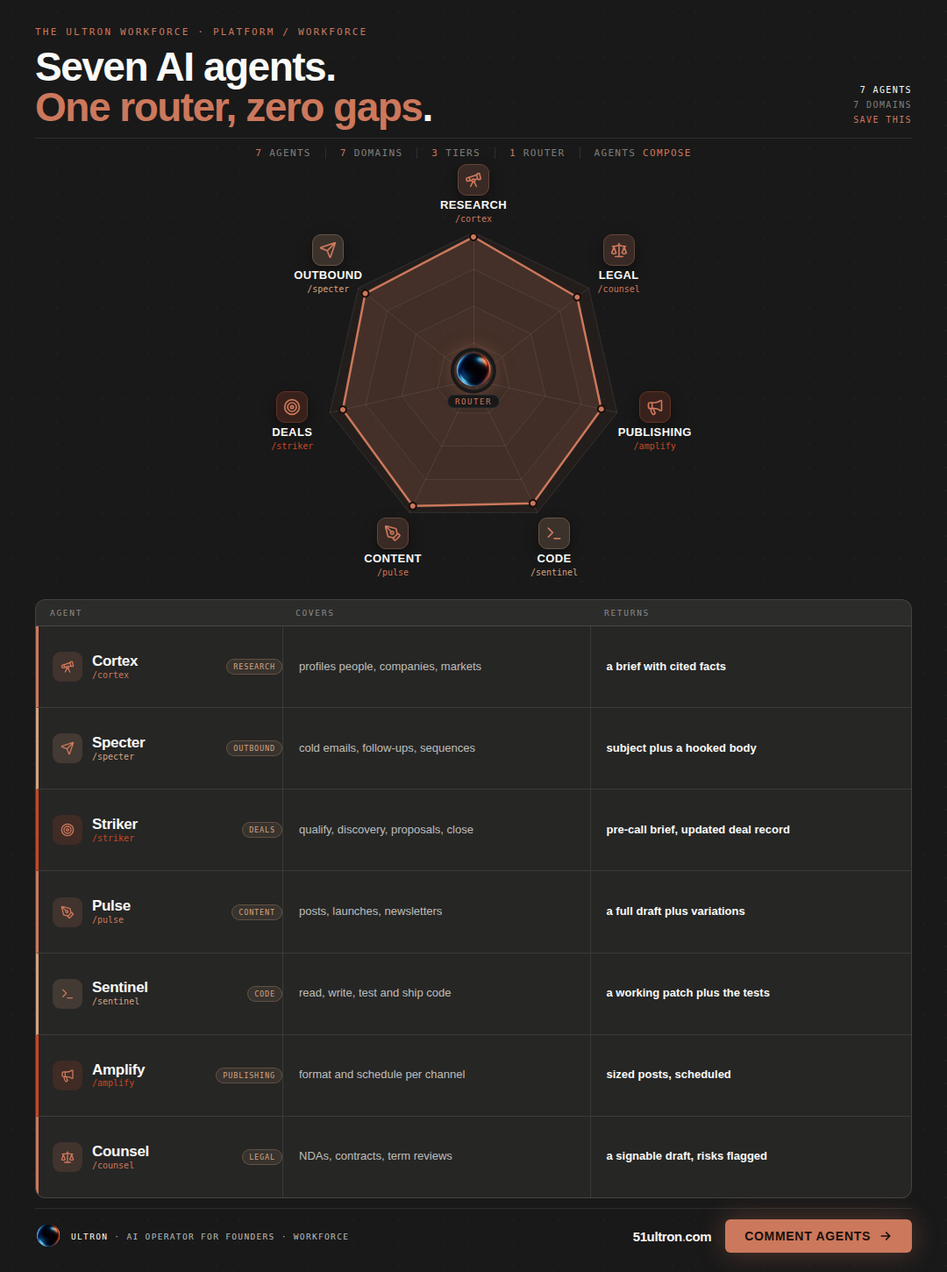
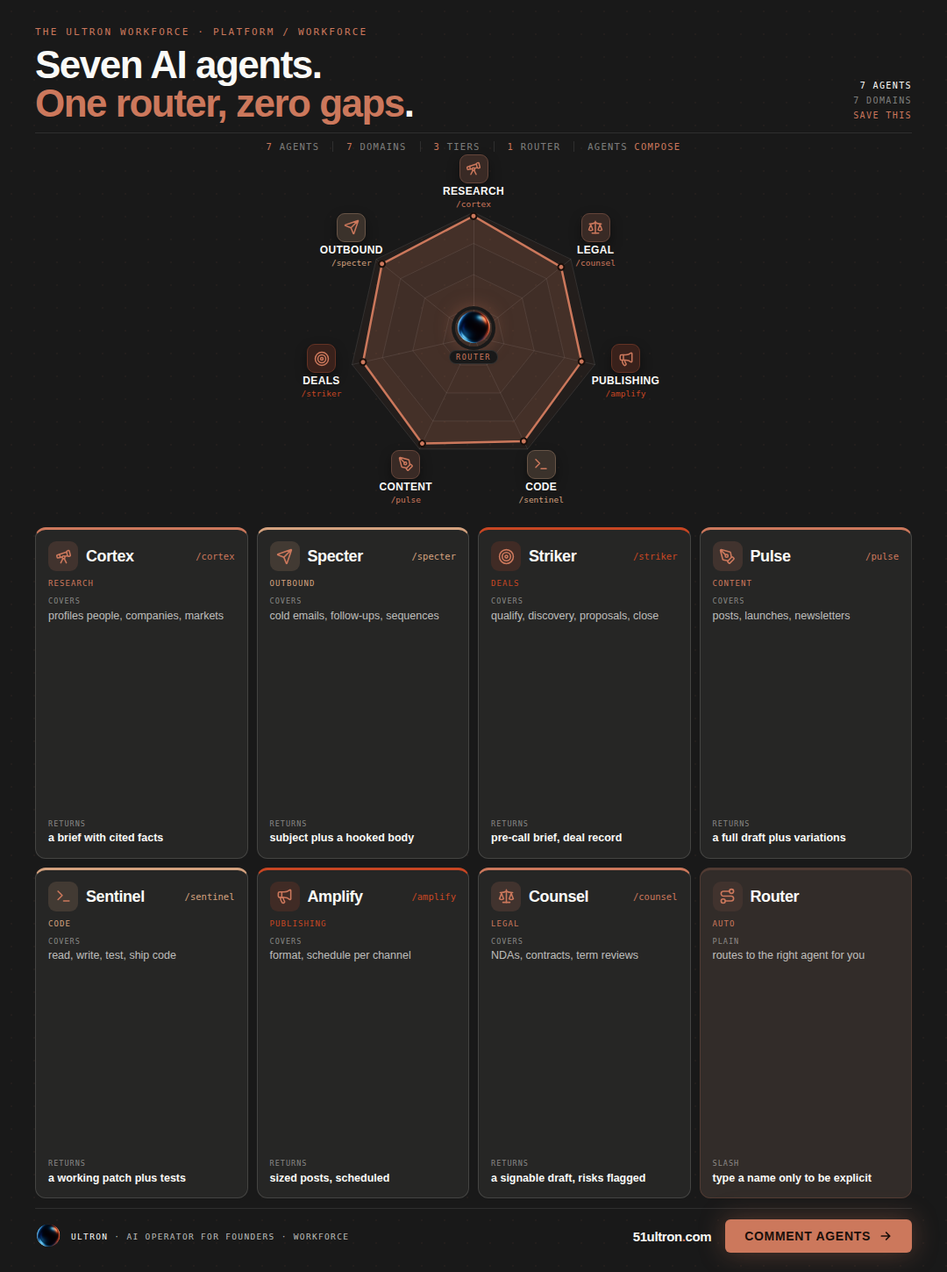
docs-04 workforce radar: radar hero + first-material card grid below (WIP)
Intermediate version per 'cards from the first material': keeps the coverage
radar on top with per-agent icon chips, reorganizes the agent info below into
rounded accent cards (7 agents + a router card) instead of the flat table.
Superseded by the reference-driven rebuild now under discussion.

https://claude.ai/code/session_018fS7xMwDiJUxoNS3zo3BKw

diff --git a/content/docs-04-workforce-linkedin-radar.html b/content/docs-04-workforce-linkedin-radar.html
@@ -5,32 +5,34 @@
 *{box-sizing:border-box;margin:0;padding:0;}body{background:#0d0d0d;font-family:'DM Sans',sans-serif;}
 .canvas{width:1080px;height:1450px;background:var(--slate);padding:30px 40px 22px;position:relative;overflow:hidden;color:var(--ivory);display:flex;flex-direction:column;}
 .canvas::before{content:'';position:absolute;inset:0;z-index:0;background-image:radial-gradient(rgba(204,120,92,.05) 1.2px,transparent 1.3px);background-size:26px 26px;}
-.atm{position:absolute;inset:0;z-index:1;background:radial-gradient(ellipse 56% 26% at 50% 30%,rgba(204,120,92,.13) 0%,transparent 60%),radial-gradient(ellipse 50% 24% at 4% 102%,rgba(212,162,127,.07) 0%,transparent 60%);}
+.atm{position:absolute;inset:0;z-index:1;background:radial-gradient(ellipse 54% 22% at 50% 26%,rgba(204,120,92,.13) 0%,transparent 60%),radial-gradient(ellipse 50% 24% at 4% 102%,rgba(212,162,127,.07) 0%,transparent 60%);}
 .canvas>*{position:relative;z-index:2;}.ig svg{width:100%;height:100%;display:block;}
-.hero{flex-shrink:0;display:flex;align-items:flex-end;justify-content:space-between;gap:24px;padding-bottom:12px;border-bottom:1px solid var(--rule);}
-.eye{font-family:'DM Mono',monospace;font-size:11px;font-weight:500;letter-spacing:.2em;text-transform:uppercase;color:var(--book);margin-bottom:10px;}
-.hook{font-weight:900;font-size:46px;line-height:1.0;letter-spacing:-1.5px;}.hook em{color:var(--book);font-style:normal;}
+.hero{flex-shrink:0;display:flex;align-items:flex-end;justify-content:space-between;gap:24px;padding-bottom:11px;border-bottom:1px solid var(--rule);}
+.eye{font-family:'DM Mono',monospace;font-size:11px;font-weight:500;letter-spacing:.2em;text-transform:uppercase;color:var(--book);margin-bottom:9px;}
+.hook{font-weight:900;font-size:44px;line-height:1.0;letter-spacing:-1.5px;}.hook em{color:var(--book);font-style:normal;}
 .hero-r{flex-shrink:0;text-align:right;font-family:'DM Mono',monospace;font-size:10px;font-weight:500;letter-spacing:.14em;text-transform:uppercase;color:var(--ink46);line-height:1.7;}.hero-r b{color:var(--ivory);font-weight:500;}
-.statline{flex-shrink:0;display:flex;justify-content:center;margin:10px 0 2px;font-family:'DM Mono',monospace;font-size:11px;font-weight:500;letter-spacing:.12em;text-transform:uppercase;color:var(--ink46);}
-.statline span{padding:0 16px;border-right:1px solid var(--rule);}.statline span:last-child{border-right:none;}.statline b{color:var(--book);font-weight:500;}
-.radarwrap{flex-shrink:0;position:relative;height:500px;}#chart{width:100%;height:100%;}
-.vchip{position:absolute;transform:translate(-50%,-50%);display:flex;flex-direction:column;align-items:center;gap:4px;width:108px;text-align:center;pointer-events:none;z-index:3;}
-.vic{width:36px;height:36px;border-radius:10px;background:color-mix(in srgb,var(--c) 18%,var(--slate));border:1px solid color-mix(in srgb,var(--c) 38%,var(--slate2));display:flex;align-items:center;justify-content:center;box-shadow:0 6px 16px rgba(0,0,0,.4);}.vic .ig{width:20px;height:20px;}
-.vd{font-weight:800;font-size:13px;letter-spacing:.03em;color:var(--ivory);text-transform:uppercase;line-height:1;}
-.vs{font-family:'DM Mono',monospace;font-size:10px;font-weight:500;color:var(--c);}
-.router{position:absolute;left:50%;top:50%;transform:translate(-50%,-50%);display:flex;flex-direction:column;align-items:center;gap:5px;pointer-events:none;z-index:4;}
-.router img{width:44px;height:44px;border-radius:50%;box-shadow:0 0 0 4px var(--slate),0 0 22px rgba(204,120,92,.5);}
-.router span{font-family:'DM Mono',monospace;font-size:9px;font-weight:500;letter-spacing:.18em;text-transform:uppercase;color:var(--book);background:var(--slate);padding:2px 8px;border-radius:20px;border:1px solid var(--rule);}
-.table{flex:1;display:flex;flex-direction:column;border:1px solid var(--ink14);border-radius:12px;overflow:hidden;background:var(--slate2);min-height:0;}
-.thead,.trow{display:grid;grid-template-columns:262px 1fr 1fr;align-items:center;}
-.thead{flex-shrink:0;padding:9px 16px;font-family:'DM Mono',monospace;font-size:9.5px;font-weight:500;letter-spacing:.18em;text-transform:uppercase;color:var(--ink46);background:rgba(250,250,247,.03);border-bottom:1px solid var(--ink14);}
-.thead .h2,.thead .h3{padding-left:18px;}
-.trow{flex:1;padding:0 16px;border-bottom:1px solid var(--rule);border-left:3px solid var(--c);}.trow:last-child{border-bottom:none;}
-.tag{display:flex;align-items:center;gap:11px;}
-.tic{width:34px;height:34px;border-radius:9px;background:color-mix(in srgb,var(--c) 16%,var(--slate2));display:flex;align-items:center;justify-content:center;flex-shrink:0;}.tic .ig{width:19px;height:19px;}
-.tnm{display:flex;flex-direction:column;line-height:1.05;min-width:86px;}.tn{font-weight:800;font-size:17px;color:var(--ivory);letter-spacing:-.3px;}.tsl{font-family:'DM Mono',monospace;font-size:10px;font-weight:500;color:var(--c);margin-top:2px;}
-.tdm{font-family:'DM Mono',monospace;font-size:8.5px;font-weight:500;letter-spacing:.1em;text-transform:uppercase;color:var(--kraft);background:rgba(212,162,127,.1);border:1px solid rgba(212,162,127,.28);padding:3px 7px;border-radius:12px;margin-left:auto;}
-.tcov,.tret{font-size:13px;font-weight:500;color:var(--ink70);line-height:1.3;padding-left:18px;border-left:1px solid var(--rule);height:100%;display:flex;align-items:center;}.tret{color:var(--ivory);font-weight:600;}
+.statline{flex-shrink:0;display:flex;justify-content:center;margin:9px 0 2px;font-family:'DM Mono',monospace;font-size:10.5px;font-weight:500;letter-spacing:.12em;text-transform:uppercase;color:var(--ink46);}
+.statline span{padding:0 15px;border-right:1px solid var(--rule);}.statline span:last-child{border-right:none;}.statline b{color:var(--book);font-weight:500;}
+.radarwrap{flex-shrink:0;position:relative;height:418px;}#chart{width:100%;height:100%;}
+.vchip{position:absolute;transform:translate(-50%,-50%);display:flex;flex-direction:column;align-items:center;gap:3px;width:104px;text-align:center;pointer-events:none;z-index:3;}
+.vic{width:33px;height:33px;border-radius:9px;background:color-mix(in srgb,var(--c) 18%,var(--slate));border:1px solid color-mix(in srgb,var(--c) 38%,var(--slate2));display:flex;align-items:center;justify-content:center;box-shadow:0 6px 14px rgba(0,0,0,.4);}.vic .ig{width:18px;height:18px;}
+.vd{font-weight:800;font-size:12px;letter-spacing:.03em;color:var(--ivory);text-transform:uppercase;line-height:1;}
+.vs{font-family:'DM Mono',monospace;font-size:9.5px;font-weight:500;color:var(--c);}
+.router{position:absolute;left:50%;top:50%;transform:translate(-50%,-50%);display:flex;flex-direction:column;align-items:center;gap:4px;pointer-events:none;z-index:4;}
+.router img{width:42px;height:42px;border-radius:50%;box-shadow:0 0 0 4px var(--slate),0 0 22px rgba(204,120,92,.5);}
+.router span{font-family:'DM Mono',monospace;font-size:8.5px;font-weight:500;letter-spacing:.18em;text-transform:uppercase;color:var(--book);background:var(--slate);padding:2px 7px;border-radius:20px;border:1px solid var(--rule);}
+.grid{flex:1;display:grid;grid-template-columns:repeat(4,1fr);grid-template-rows:1fr 1fr;gap:10px;min-height:0;margin-top:8px;}
+.sec{background:var(--slate2);border:1px solid var(--ink14);border-top:3px solid var(--c);border-radius:12px;padding:13px 14px;display:flex;flex-direction:column;position:relative;overflow:hidden;}
+.sh{display:flex;align-items:center;gap:9px;margin-bottom:9px;}
+.cic{width:34px;height:34px;border-radius:9px;background:color-mix(in srgb,var(--c) 16%,var(--slate2));display:flex;align-items:center;justify-content:center;flex-shrink:0;}.cic .ig{width:19px;height:19px;}
+.st{font-weight:800;font-size:18px;letter-spacing:-.4px;color:var(--ivory);line-height:1;}
+.slash{font-family:'DM Mono',monospace;font-size:10.5px;font-weight:500;color:var(--c);margin-left:auto;}
+.dm{font-family:'DM Mono',monospace;font-size:9px;font-weight:500;letter-spacing:.12em;text-transform:uppercase;color:var(--c);margin-bottom:10px;}
+.kv{font-size:12.5px;font-weight:500;color:var(--ink70);line-height:1.38;margin-bottom:7px;}
+.kv:last-child{margin-bottom:0;}
+.kv .k{display:block;font-family:'DM Mono',monospace;font-size:8.5px;font-weight:500;letter-spacing:.12em;text-transform:uppercase;color:var(--ink46);margin-bottom:2px;}
+.kv.ret{color:var(--ivory);font-weight:600;margin-top:auto;}
+.sec.rt{background:color-mix(in srgb,var(--book) 7%,var(--slate2));border-color:color-mix(in srgb,var(--book) 26%,var(--slate2));}
 .ftr{flex-shrink:0;margin-top:11px;display:flex;align-items:center;justify-content:space-between;gap:16px;border-top:1px solid var(--rule);padding-top:12px;}
 .fl{display:flex;align-items:center;gap:11px;}.flogo{width:30px;height:30px;border-radius:50%;}
 .ftx{font-family:'DM Mono',monospace;font-size:9.5px;font-weight:400;letter-spacing:.14em;text-transform:uppercase;color:var(--ink70);}.ftx b{color:var(--ivory);font-weight:500;}
@@ -42,29 +44,47 @@
 <div class="hook">Seven AI agents.<br><em>One router, zero gaps</em>.</div></div>
 <div class="hero-r"><b>7 agents</b><br>7 domains<br><span style="color:var(--book)">save this</span></div></div>
 <div class="statline"><span><b>7</b> agents</span><span><b>7</b> domains</span><span><b>3</b> tiers</span><span><b>1</b> router</span><span>agents <b>compose</b></span></div>
-<div class="radarwrap"><div id="chart"></div><div class="vchip" style="--c:var(--book);left:50.00%;top:7.60%">
-      <span class="vic"><span class="ig"><svg xmlns="http://www.w3.org/2000/svg" width="1em" height="1em" viewBox="0 0 24 24"><g fill="none" stroke="#CC785C" stroke-linecap="round" stroke-linejoin="round" stroke-width="2"><path d="m10.065 12.493l-6.18 1.318a.934.934 0 0 1-1.108-.702l-.537-2.15a1.07 1.07 0 0 1 .691-1.265l13.504-4.44m-2.875 6.493l4.332-.924M16 21l-3.105-6.21"/><path d="M16.485 5.94a2 2 0 0 1 1.455-2.425l1.09-.272a1 1 0 0 1 1.212.727l1.515 6.06a1 1 0 0 1-.727 1.213l-1.09.272a2 2 0 0 1-2.425-1.455zM6.158 8.633l1.114 4.456M8 21l3.105-6.21"/><circle cx="12" cy="13" r="2"/></g></svg></span></span><span class="vd">Research</span><span class="vs">/cortex</span></div><div class="vchip" style="--c:var(--kraft);left:33.43%;top:23.56%">
-      <span class="vic"><span class="ig"><svg xmlns="http://www.w3.org/2000/svg" width="1em" height="1em" viewBox="0 0 24 24"><path fill="none" stroke="#CC785C" stroke-linecap="round" stroke-linejoin="round" stroke-width="2" d="M14.536 21.686a.5.5 0 0 0 .937-.024l6.5-19a.496.496 0 0 0-.635-.635l-19 6.5a.5.5 0 0 0-.024.937l7.93 3.18a2 2 0 0 1 1.112 1.11zm7.318-19.539l-10.94 10.939"/></svg></span></span><span class="vd">Outbound</span><span class="vs">/specter</span></div><div class="vchip" style="--c:var(--book-d);left:29.33%;top:59.43%">
-      <span class="vic"><span class="ig"><svg xmlns="http://www.w3.org/2000/svg" width="1em" height="1em" viewBox="0 0 24 24"><g fill="none" stroke="#CC785C" stroke-linecap="round" stroke-linejoin="round" stroke-width="2"><circle cx="12" cy="12" r="10"/><circle cx="12" cy="12" r="6"/><circle cx="12" cy="12" r="2"/></g></svg></span></span><span class="vd">Deals</span><span class="vs">/striker</span></div><div class="vchip" style="--c:var(--book);left:40.80%;top:88.20%">
-      <span class="vic"><span class="ig"><svg xmlns="http://www.w3.org/2000/svg" width="1em" height="1em" viewBox="0 0 24 24"><g fill="none" stroke="#CC785C" stroke-linecap="round" stroke-linejoin="round" stroke-width="2"><path d="M15.707 21.293a1 1 0 0 1-1.414 0l-1.586-1.586a1 1 0 0 1 0-1.414l5.586-5.586a1 1 0 0 1 1.414 0l1.586 1.586a1 1 0 0 1 0 1.414z"/><path d="m18 13l-1.375-6.874a1 1 0 0 0-.746-.776L3.235 2.028a1 1 0 0 0-1.207 1.207L5.35 15.879a1 1 0 0 0 .776.746L13 18M2.3 2.3l7.286 7.286"/><circle cx="11" cy="11" r="2"/></g></svg></span></span><span class="vd">Content</span><span class="vs">/pulse</span></div><div class="vchip" style="--c:var(--kraft);left:59.20%;top:88.20%">
-      <span class="vic"><span class="ig"><svg xmlns="http://www.w3.org/2000/svg" width="1em" height="1em" viewBox="0 0 24 24"><path fill="none" stroke="#CC785C" stroke-linecap="round" stroke-linejoin="round" stroke-width="2" d="M12 19h8M4 17l6-6l-6-6"/></svg></span></span><span class="vd">Code</span><span class="vs">/sentinel</span></div><div class="vchip" style="--c:var(--book-d);left:70.67%;top:59.43%">
-      <span class="vic"><span class="ig"><svg xmlns="http://www.w3.org/2000/svg" width="1em" height="1em" viewBox="0 0 24 24"><g fill="none" stroke="#CC785C" stroke-linecap="round" stroke-linejoin="round" stroke-width="2"><path d="M11 6a13 13 0 0 0 8.4-2.8A1 1 0 0 1 21 4v12a1 1 0 0 1-1.6.8A13 13 0 0 0 11 14H5a2 2 0 0 1-2-2V8a2 2 0 0 1 2-2z"/><path d="M6 14a12 12 0 0 0 2.4 7.2a2 2 0 0 0 3.2-2.4A8 8 0 0 1 10 14M8 6v8"/></g></svg></span></span><span class="vd">Publishing</span><span class="vs">/amplify</span></div><div class="vchip" style="--c:var(--book);left:66.57%;top:23.56%">
+<div class="radarwrap"><div id="chart"></div><div class="vchip" style="--c:var(--book);left:50.00%;top:7.62%">
+      <span class="vic"><span class="ig"><svg xmlns="http://www.w3.org/2000/svg" width="1em" height="1em" viewBox="0 0 24 24"><g fill="none" stroke="#CC785C" stroke-linecap="round" stroke-linejoin="round" stroke-width="2"><path d="m10.065 12.493l-6.18 1.318a.934.934 0 0 1-1.108-.702l-.537-2.15a1.07 1.07 0 0 1 .691-1.265l13.504-4.44m-2.875 6.493l4.332-.924M16 21l-3.105-6.21"/><path d="M16.485 5.94a2 2 0 0 1 1.455-2.425l1.09-.272a1 1 0 0 1 1.212.727l1.515 6.06a1 1 0 0 1-.727 1.213l-1.09.272a2 2 0 0 1-2.425-1.455zM6.158 8.633l1.114 4.456M8 21l3.105-6.21"/><circle cx="12" cy="13" r="2"/></g></svg></span></span><span class="vd">Research</span><span class="vs">/cortex</span></div><div class="vchip" style="--c:var(--kraft);left:36.08%;top:23.58%">
+      <span class="vic"><span class="ig"><svg xmlns="http://www.w3.org/2000/svg" width="1em" height="1em" viewBox="0 0 24 24"><path fill="none" stroke="#CC785C" stroke-linecap="round" stroke-linejoin="round" stroke-width="2" d="M14.536 21.686a.5.5 0 0 0 .937-.024l6.5-19a.496.496 0 0 0-.635-.635l-19 6.5a.5.5 0 0 0-.024.937l7.93 3.18a2 2 0 0 1 1.112 1.11zm7.318-19.539l-10.94 10.939"/></svg></span></span><span class="vd">Outbound</span><span class="vs">/specter</span></div><div class="vchip" style="--c:var(--book-d);left:32.65%;top:59.43%">
+      <span class="vic"><span class="ig"><svg xmlns="http://www.w3.org/2000/svg" width="1em" height="1em" viewBox="0 0 24 24"><g fill="none" stroke="#CC785C" stroke-linecap="round" stroke-linejoin="round" stroke-width="2"><circle cx="12" cy="12" r="10"/><circle cx="12" cy="12" r="6"/><circle cx="12" cy="12" r="2"/></g></svg></span></span><span class="vd">Deals</span><span class="vs">/striker</span></div><div class="vchip" style="--c:var(--book);left:42.28%;top:88.18%">
+      <span class="vic"><span class="ig"><svg xmlns="http://www.w3.org/2000/svg" width="1em" height="1em" viewBox="0 0 24 24"><g fill="none" stroke="#CC785C" stroke-linecap="round" stroke-linejoin="round" stroke-width="2"><path d="M15.707 21.293a1 1 0 0 1-1.414 0l-1.586-1.586a1 1 0 0 1 0-1.414l5.586-5.586a1 1 0 0 1 1.414 0l1.586 1.586a1 1 0 0 1 0 1.414z"/><path d="m18 13l-1.375-6.874a1 1 0 0 0-.746-.776L3.235 2.028a1 1 0 0 0-1.207 1.207L5.35 15.879a1 1 0 0 0 .776.746L13 18M2.3 2.3l7.286 7.286"/><circle cx="11" cy="11" r="2"/></g></svg></span></span><span class="vd">Content</span><span class="vs">/pulse</span></div><div class="vchip" style="--c:var(--kraft);left:57.72%;top:88.18%">
+      <span class="vic"><span class="ig"><svg xmlns="http://www.w3.org/2000/svg" width="1em" height="1em" viewBox="0 0 24 24"><path fill="none" stroke="#CC785C" stroke-linecap="round" stroke-linejoin="round" stroke-width="2" d="M12 19h8M4 17l6-6l-6-6"/></svg></span></span><span class="vd">Code</span><span class="vs">/sentinel</span></div><div class="vchip" style="--c:var(--book-d);left:67.35%;top:59.43%">
+      <span class="vic"><span class="ig"><svg xmlns="http://www.w3.org/2000/svg" width="1em" height="1em" viewBox="0 0 24 24"><g fill="none" stroke="#CC785C" stroke-linecap="round" stroke-linejoin="round" stroke-width="2"><path d="M11 6a13 13 0 0 0 8.4-2.8A1 1 0 0 1 21 4v12a1 1 0 0 1-1.6.8A13 13 0 0 0 11 14H5a2 2 0 0 1-2-2V8a2 2 0 0 1 2-2z"/><path d="M6 14a12 12 0 0 0 2.4 7.2a2 2 0 0 0 3.2-2.4A8 8 0 0 1 10 14M8 6v8"/></g></svg></span></span><span class="vd">Publishing</span><span class="vs">/amplify</span></div><div class="vchip" style="--c:var(--book);left:63.92%;top:23.58%">
       <span class="vic"><span class="ig"><svg xmlns="http://www.w3.org/2000/svg" width="1em" height="1em" viewBox="0 0 24 24"><g fill="none" stroke="#CC785C" stroke-linecap="round" stroke-linejoin="round" stroke-width="2"><path d="M12 3v18m7-13l3 8a5 5 0 0 1-6 0zV7"/><path d="M3 7h1a17 17 0 0 0 8-2a17 17 0 0 0 8 2h1M5 8l3 8a5 5 0 0 1-6 0zV7m2 14h10"/></g></svg></span></span><span class="vd">Legal</span><span class="vs">/counsel</span></div><div class="router"><img src="__LOGO_URI__"><span>Router</span></div></div>
-<div class="table"><div class="thead"><span>Agent</span><span class="h2">Covers</span><span class="h3">Returns</span></div><div class="trow" style="--c:var(--book)">
-      <div class="tag"><span class="tic"><svg xmlns="http://www.w3.org/2000/svg" width="1em" height="1em" viewBox="0 0 24 24"><g fill="none" stroke="#CC785C" stroke-linecap="round" stroke-linejoin="round" stroke-width="2"><path d="m10.065 12.493l-6.18 1.318a.934.934 0 0 1-1.108-.702l-.537-2.15a1.07 1.07 0 0 1 .691-1.265l13.504-4.44m-2.875 6.493l4.332-.924M16 21l-3.105-6.21"/><path d="M16.485 5.94a2 2 0 0 1 1.455-2.425l1.09-.272a1 1 0 0 1 1.212.727l1.515 6.06a1 1 0 0 1-.727 1.213l-1.09.272a2 2 0 0 1-2.425-1.455zM6.158 8.633l1.114 4.456M8 21l3.105-6.21"/><circle cx="12" cy="13" r="2"/></g></svg></span><div class="tnm"><span class="tn">Cortex</span><span class="tsl">/cortex</span></div><span class="tdm">Research</span></div>
-      <div class="tcov">profiles people, companies, markets</div><div class="tret">a brief with cited facts</div></div><div class="trow" style="--c:var(--kraft)">
-      <div class="tag"><span class="tic"><svg xmlns="http://www.w3.org/2000/svg" width="1em" height="1em" viewBox="0 0 24 24"><path fill="none" stroke="#CC785C" stroke-linecap="round" stroke-linejoin="round" stroke-width="2" d="M14.536 21.686a.5.5 0 0 0 .937-.024l6.5-19a.496.496 0 0 0-.635-.635l-19 6.5a.5.5 0 0 0-.024.937l7.93 3.18a2 2 0 0 1 1.112 1.11zm7.318-19.539l-10.94 10.939"/></svg></span><div class="tnm"><span class="tn">Specter</span><span class="tsl">/specter</span></div><span class="tdm">Outbound</span></div>
-      <div class="tcov">cold emails, follow-ups, sequences</div><div class="tret">subject plus a hooked body</div></div><div class="trow" style="--c:var(--book-d)">
-      <div class="tag"><span class="tic"><svg xmlns="http://www.w3.org/2000/svg" width="1em" height="1em" viewBox="0 0 24 24"><g fill="none" stroke="#CC785C" stroke-linecap="round" stroke-linejoin="round" stroke-width="2"><circle cx="12" cy="12" r="10"/><circle cx="12" cy="12" r="6"/><circle cx="12" cy="12" r="2"/></g></svg></span><div class="tnm"><span class="tn">Striker</span><span class="tsl">/striker</span></div><span class="tdm">Deals</span></div>
-      <div class="tcov">qualify, discovery, proposals, close</div><div class="tret">pre-call brief, updated deal record</div></div><div class="trow" style="--c:var(--book)">
-      <div class="tag"><span class="tic"><svg xmlns="http://www.w3.org/2000/svg" width="1em" height="1em" viewBox="0 0 24 24"><g fill="none" stroke="#CC785C" stroke-linecap="round" stroke-linejoin="round" stroke-width="2"><path d="M15.707 21.293a1 1 0 0 1-1.414 0l-1.586-1.586a1 1 0 0 1 0-1.414l5.586-5.586a1 1 0 0 1 1.414 0l1.586 1.586a1 1 0 0 1 0 1.414z"/><path d="m18 13l-1.375-6.874a1 1 0 0 0-.746-.776L3.235 2.028a1 1 0 0 0-1.207 1.207L5.35 15.879a1 1 0 0 0 .776.746L13 18M2.3 2.3l7.286 7.286"/><circle cx="11" cy="11" r="2"/></g></svg></span><div class="tnm"><span class="tn">Pulse</span><span class="tsl">/pulse</span></div><span class="tdm">Content</span></div>
-      <div class="tcov">posts, launches, newsletters</div><div class="tret">a full draft plus variations</div></div><div class="trow" style="--c:var(--kraft)">
-      <div class="tag"><span class="tic"><svg xmlns="http://www.w3.org/2000/svg" width="1em" height="1em" viewBox="0 0 24 24"><path fill="none" stroke="#CC785C" stroke-linecap="round" stroke-linejoin="round" stroke-width="2" d="M12 19h8M4 17l6-6l-6-6"/></svg></span><div class="tnm"><span class="tn">Sentinel</span><span class="tsl">/sentinel</span></div><span class="tdm">Code</span></div>
-      <div class="tcov">read, write, test and ship code</div><div class="tret">a working patch plus the tests</div></div><div class="trow" style="--c:var(--book-d)">
-      <div class="tag"><span class="tic"><svg xmlns="http://www.w3.org/2000/svg" width="1em" height="1em" viewBox="0 0 24 24"><g fill="none" stroke="#CC785C" stroke-linecap="round" stroke-linejoin="round" stroke-width="2"><path d="M11 6a13 13 0 0 0 8.4-2.8A1 1 0 0 1 21 4v12a1 1 0 0 1-1.6.8A13 13 0 0 0 11 14H5a2 2 0 0 1-2-2V8a2 2 0 0 1 2-2z"/><path d="M6 14a12 12 0 0 0 2.4 7.2a2 2 0 0 0 3.2-2.4A8 8 0 0 1 10 14M8 6v8"/></g></svg></span><div class="tnm"><span class="tn">Amplify</span><span class="tsl">/amplify</span></div><span class="tdm">Publishing</span></div>
-      <div class="tcov">format and schedule per channel</div><div class="tret">sized posts, scheduled</div></div><div class="trow" style="--c:var(--book)">
-      <div class="tag"><span class="tic"><svg xmlns="http://www.w3.org/2000/svg" width="1em" height="1em" viewBox="0 0 24 24"><g fill="none" stroke="#CC785C" stroke-linecap="round" stroke-linejoin="round" stroke-width="2"><path d="M12 3v18m7-13l3 8a5 5 0 0 1-6 0zV7"/><path d="M3 7h1a17 17 0 0 0 8-2a17 17 0 0 0 8 2h1M5 8l3 8a5 5 0 0 1-6 0zV7m2 14h10"/></g></svg></span><div class="tnm"><span class="tn">Counsel</span><span class="tsl">/counsel</span></div><span class="tdm">Legal</span></div>
-      <div class="tcov">NDAs, contracts, term reviews</div><div class="tret">a signable draft, risks flagged</div></div></div>
+<div class="grid"><div class="sec" style="--c:var(--book)">
+      <div class="sh"><span class="cic"><span class="ig"><svg xmlns="http://www.w3.org/2000/svg" width="1em" height="1em" viewBox="0 0 24 24"><g fill="none" stroke="#CC785C" stroke-linecap="round" stroke-linejoin="round" stroke-width="2"><path d="m10.065 12.493l-6.18 1.318a.934.934 0 0 1-1.108-.702l-.537-2.15a1.07 1.07 0 0 1 .691-1.265l13.504-4.44m-2.875 6.493l4.332-.924M16 21l-3.105-6.21"/><path d="M16.485 5.94a2 2 0 0 1 1.455-2.425l1.09-.272a1 1 0 0 1 1.212.727l1.515 6.06a1 1 0 0 1-.727 1.213l-1.09.272a2 2 0 0 1-2.425-1.455zM6.158 8.633l1.114 4.456M8 21l3.105-6.21"/><circle cx="12" cy="13" r="2"/></g></svg></span></span><span class="st">Cortex</span><span class="slash">/cortex</span></div>
+      <div class="dm">Research</div>
+      <div class="kv"><span class="k">Covers</span>profiles people, companies, markets</div>
+      <div class="kv ret"><span class="k">Returns</span>a brief with cited facts</div></div><div class="sec" style="--c:var(--kraft)">
+      <div class="sh"><span class="cic"><span class="ig"><svg xmlns="http://www.w3.org/2000/svg" width="1em" height="1em" viewBox="0 0 24 24"><path fill="none" stroke="#CC785C" stroke-linecap="round" stroke-linejoin="round" stroke-width="2" d="M14.536 21.686a.5.5 0 0 0 .937-.024l6.5-19a.496.496 0 0 0-.635-.635l-19 6.5a.5.5 0 0 0-.024.937l7.93 3.18a2 2 0 0 1 1.112 1.11zm7.318-19.539l-10.94 10.939"/></svg></span></span><span class="st">Specter</span><span class="slash">/specter</span></div>
+      <div class="dm">Outbound</div>
+      <div class="kv"><span class="k">Covers</span>cold emails, follow-ups, sequences</div>
+      <div class="kv ret"><span class="k">Returns</span>subject plus a hooked body</div></div><div class="sec" style="--c:var(--book-d)">
+      <div class="sh"><span class="cic"><span class="ig"><svg xmlns="http://www.w3.org/2000/svg" width="1em" height="1em" viewBox="0 0 24 24"><g fill="none" stroke="#CC785C" stroke-linecap="round" stroke-linejoin="round" stroke-width="2"><circle cx="12" cy="12" r="10"/><circle cx="12" cy="12" r="6"/><circle cx="12" cy="12" r="2"/></g></svg></span></span><span class="st">Striker</span><span class="slash">/striker</span></div>
+      <div class="dm">Deals</div>
+      <div class="kv"><span class="k">Covers</span>qualify, discovery, proposals, close</div>
+      <div class="kv ret"><span class="k">Returns</span>pre-call brief, deal record</div></div><div class="sec" style="--c:var(--book)">
+      <div class="sh"><span class="cic"><span class="ig"><svg xmlns="http://www.w3.org/2000/svg" width="1em" height="1em" viewBox="0 0 24 24"><g fill="none" stroke="#CC785C" stroke-linecap="round" stroke-linejoin="round" stroke-width="2"><path d="M15.707 21.293a1 1 0 0 1-1.414 0l-1.586-1.586a1 1 0 0 1 0-1.414l5.586-5.586a1 1 0 0 1 1.414 0l1.586 1.586a1 1 0 0 1 0 1.414z"/><path d="m18 13l-1.375-6.874a1 1 0 0 0-.746-.776L3.235 2.028a1 1 0 0 0-1.207 1.207L5.35 15.879a1 1 0 0 0 .776.746L13 18M2.3 2.3l7.286 7.286"/><circle cx="11" cy="11" r="2"/></g></svg></span></span><span class="st">Pulse</span><span class="slash">/pulse</span></div>
+      <div class="dm">Content</div>
+      <div class="kv"><span class="k">Covers</span>posts, launches, newsletters</div>
+      <div class="kv ret"><span class="k">Returns</span>a full draft plus variations</div></div><div class="sec" style="--c:var(--kraft)">
+      <div class="sh"><span class="cic"><span class="ig"><svg xmlns="http://www.w3.org/2000/svg" width="1em" height="1em" viewBox="0 0 24 24"><path fill="none" stroke="#CC785C" stroke-linecap="round" stroke-linejoin="round" stroke-width="2" d="M12 19h8M4 17l6-6l-6-6"/></svg></span></span><span class="st">Sentinel</span><span class="slash">/sentinel</span></div>
+      <div class="dm">Code</div>
+      <div class="kv"><span class="k">Covers</span>read, write, test, ship code</div>
+      <div class="kv ret"><span class="k">Returns</span>a working patch plus tests</div></div><div class="sec" style="--c:var(--book-d)">
+      <div class="sh"><span class="cic"><span class="ig"><svg xmlns="http://www.w3.org/2000/svg" width="1em" height="1em" viewBox="0 0 24 24"><g fill="none" stroke="#CC785C" stroke-linecap="round" stroke-linejoin="round" stroke-width="2"><path d="M11 6a13 13 0 0 0 8.4-2.8A1 1 0 0 1 21 4v12a1 1 0 0 1-1.6.8A13 13 0 0 0 11 14H5a2 2 0 0 1-2-2V8a2 2 0 0 1 2-2z"/><path d="M6 14a12 12 0 0 0 2.4 7.2a2 2 0 0 0 3.2-2.4A8 8 0 0 1 10 14M8 6v8"/></g></svg></span></span><span class="st">Amplify</span><span class="slash">/amplify</span></div>
+      <div class="dm">Publishing</div>
+      <div class="kv"><span class="k">Covers</span>format, schedule per channel</div>
+      <div class="kv ret"><span class="k">Returns</span>sized posts, scheduled</div></div><div class="sec" style="--c:var(--book)">
+      <div class="sh"><span class="cic"><span class="ig"><svg xmlns="http://www.w3.org/2000/svg" width="1em" height="1em" viewBox="0 0 24 24"><g fill="none" stroke="#CC785C" stroke-linecap="round" stroke-linejoin="round" stroke-width="2"><path d="M12 3v18m7-13l3 8a5 5 0 0 1-6 0zV7"/><path d="M3 7h1a17 17 0 0 0 8-2a17 17 0 0 0 8 2h1M5 8l3 8a5 5 0 0 1-6 0zV7m2 14h10"/></g></svg></span></span><span class="st">Counsel</span><span class="slash">/counsel</span></div>
+      <div class="dm">Legal</div>
+      <div class="kv"><span class="k">Covers</span>NDAs, contracts, term reviews</div>
+      <div class="kv ret"><span class="k">Returns</span>a signable draft, risks flagged</div></div><div class="sec rt" style="--c:var(--book)">
+      <div class="sh"><span class="cic"><span class="ig"><svg xmlns="http://www.w3.org/2000/svg" width="1em" height="1em" viewBox="0 0 24 24"><g fill="none" stroke="#CC785C" stroke-linecap="round" stroke-linejoin="round" stroke-width="2"><circle cx="6" cy="19" r="3"/><path d="M9 19h8.5a3.5 3.5 0 0 0 0-7h-11a3.5 3.5 0 0 1 0-7H15"/><circle cx="18" cy="5" r="3"/></g></svg></span></span><span class="st">Router</span></div>
+      <div class="dm">Auto</div>
+      <div class="kv"><span class="k">Plain</span>routes to the right agent for you</div>
+      <div class="kv ret"><span class="k">Slash</span>type a name only to be explicit</div></div></div>
 <div class="ftr"><div class="fl"><img class="flogo" src="__LOGO_URI__"><div class="ftx"><b>ULTRON</b> &middot; AI OPERATOR FOR FOUNDERS &middot; WORKFORCE</div></div>
 <div class="fr"><div class="furl">51ultron<em>.</em>com</div><div class="cta">COMMENT AGENTS <svg viewBox="0 0 24 24"><path d="M5 12h14M13 6l6 6-6 6"/></svg></div></div></div>
 </div>
@@ -72,12 +92,12 @@
 <script>
 const c=echarts.init(document.getElementById('chart'),null,{renderer:'svg'});
 c.setOption({backgroundColor:'transparent',
- radar:{shape:'polygon',center:['50%','50%'],radius:168,startAngle:90,
+ radar:{shape:'polygon',center:['50%','50%'],radius:142,startAngle:90,
   indicator:[{name:"Research",max:100},{name:"Outbound",max:100},{name:"Deals",max:100},{name:"Content",max:100},{name:"Code",max:100},{name:"Publishing",max:100},{name:"Legal",max:100}],splitNumber:4,axisName:{show:false},
   splitLine:{lineStyle:{color:'rgba(250,250,247,.10)'}},
   splitArea:{areaStyle:{color:['rgba(204,120,92,.03)','rgba(204,120,92,.06)']}},
   axisLine:{lineStyle:{color:'rgba(250,250,247,.10)'}}},
- series:[{type:'radar',symbol:'circle',symbolSize:8,
+ series:[{type:'radar',symbol:'circle',symbolSize:7,
   data:[{value:[97,94,91,95,93,89,90],lineStyle:{color:'#CC785C',width:2.5},itemStyle:{color:'#CC785C',borderColor:'#1a0f0a',borderWidth:2},areaStyle:{color:'rgba(204,120,92,.28)'}}]}]});
 window.__ready=true;
 </script></body></html>
